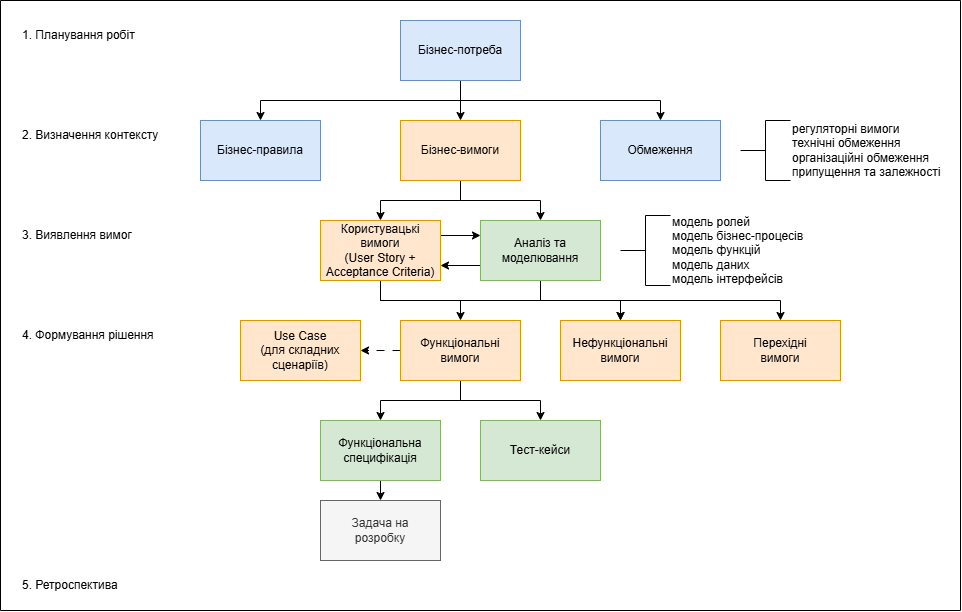
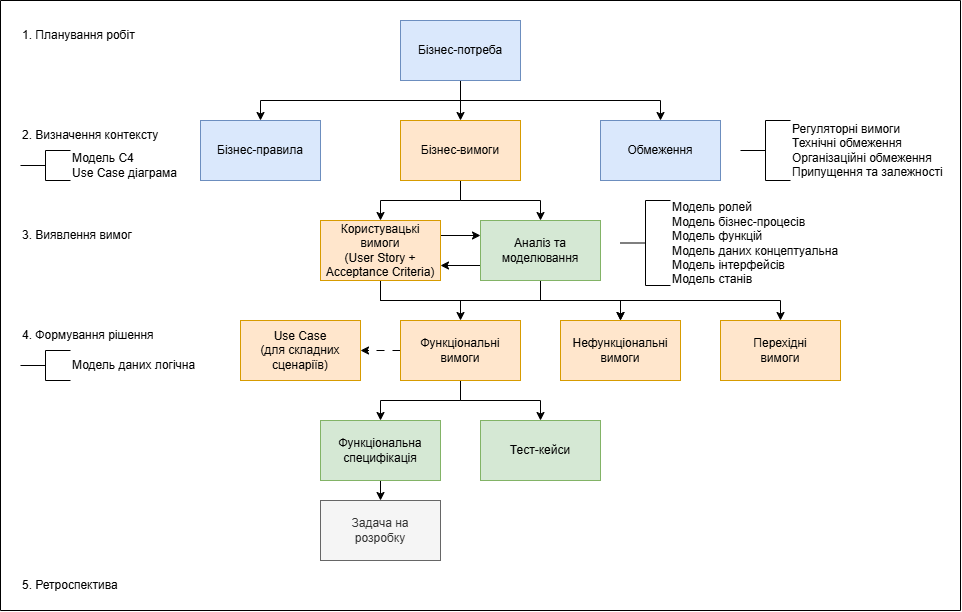
change page concept

diff --git a/concept.html b/concept.html
@@ -763,13 +763,15 @@
                         <a href="">шаблон</a>)
                       </li>
                       <li>
-                        Контекстна діаграма С4 (див. <a href="">приклад</a>)
-                      </li>
-                      <li>Use Case діаграма (див. <a href="">приклад</a>)</li>
-                      <li>
                         Бізнес&ndash;вимоги (див.
                         <a href="">шаблон</a>)
                       </li>
+                      <li>
+                        Реєстр зацікавлених сторін (див.
+                        <a href="">шаблон</a>)
+                      </li>
+                      <li>Модель С4 (див. <a href="">приклад</a>)</li>
+                      <li>Use Case діаграма (див. <a href="">приклад</a>)</li>
                       <li>
                         Матриця трасування вимог (див.
                         <a href="">шаблон</a>)
@@ -926,10 +928,6 @@
                     <b>Виходи</b>
                     <ul>
                       <li>
-                        Реєстр зацікавлених сторін (див.
-                        <a href="">шаблон</a>)
-                      </li>
-                      <li>
                         Користувацькі вимоги (див.
                         <a href="">шаблон</a>)
                       </li>
@@ -942,11 +940,36 @@
                         <a href="">шаблон</a>)
                       </li>
                       <li>
-                        Актуалізована Матриця трасування вимог (див.
+                        Модель ролей (див.
                         <a href="">шаблон</a>)
                       </li>
                       <li>
-                        Актуалізовано Глосарій термінів (див.
+                        Модель бізнес-процесів (див.
+                        <a href="">шаблон</a>)
+                      </li>
+
+                      <li>
+                        Модель функцій (див.
+                        <a href="">шаблон</a>)
+                      </li>
+                      <li>
+                        Модель даних концептуальна (див.
+                        <a href="">шаблон</a>)
+                      </li>
+                      <li>
+                        Модель інтерфейсів (див.
+                        <a href="">шаблон</a>)
+                      </li>
+                      <li>
+                        Модель станів (див.
+                        <a href="">шаблон</a>)
+                      </li>
+                      <li>
+                        Матриця трасування вимог (див.
+                        <a href="">шаблон</a>)
+                      </li>
+                      <li>
+                        Глосарій термінів (див.
                         <a href="">шаблон</a>)
                       </li>
                     </ul>
@@ -1152,23 +1175,11 @@
                         <a href="">шаблон</a>)
                       </li>
                       <li>
-                        Модель бізнес-процесів (див.
-                        <a href="">шаблон</a>)
-                      </li>
-                      <li>
-                        Модель даних (див.
-                        <a href="">шаблон</a>)
-                      </li>
-                      <li>
-                        Модель функцій (див.
-                        <a href="">шаблон</a>)
-                      </li>
-                      <li>
-                        Модель інтерфейсів (див.
-                        <a href="">шаблон</a>)
-                      </li>
-                      <li>
                         Функціональні вимоги (див.
+                        <a href="">шаблон</a>)
+                      </li>
+                      <li>
+                        Use Case (для складних сценаріїв, див.
                         <a href="">шаблон</a>)
                       </li>
                       <li>
@@ -1180,11 +1191,19 @@
                         <a href="">шаблон</a>)
                       </li>
                       <li>
-                        Актуалізована Матриця трасування вимог (див.
+                        Перехідні вимоги (див.
                         <a href="">шаблон</a>)
                       </li>
                       <li>
-                        Актуалізований Глосарій термінів (див.
+                        Модель даних логічна (див.
+                        <a href="">шаблон</a>)
+                      </li>
+                      <li>
+                        Матриця трасування вимог (див.
+                        <a href="">шаблон</a>)
+                      </li>
+                      <li>
+                        Глосарій термінів (див.
                         <a href="">шаблон</a>)
                       </li>
                     </ul>
@@ -1385,9 +1404,7 @@
                     <b>Виходи</b>
                     <ul>
                       <li>Звіт про ретроспективу</li>
-                      <li>
-                        План удосконалення процесу бізнес-аналізу (за потреби)
-                      </li>
+                      <li>План удосконалення процесу бізнес-аналізу</li>
                     </ul>
                   </div>
                 </div>
@@ -1483,7 +1500,36 @@
         </div>
       </div>
 
-      <div class="mt-4 text-center">
+      <!-- Перемикач -->
+      <div class="d-flex justify-content-center mt-4">
+        <div class="btn-group" role="group">
+          <input
+            type="radio"
+            class="btn-check"
+            name="viewMode"
+            id="graphView"
+            autocomplete="off"
+            checked
+          />
+          <label class="btn btn-outline-primary" for="graphView">
+            Графічне представлення
+          </label>
+
+          <input
+            type="radio"
+            class="btn-check"
+            name="viewMode"
+            id="tableView"
+            autocomplete="off"
+          />
+          <label class="btn btn-outline-primary" for="tableView">
+            Табличне представлення
+          </label>
+        </div>
+      </div>
+
+      <!-- Графічне представлення -->
+      <div id="graphContainer" class="mt-4 text-center">
         <img
           src="./src/img/concept-lifeCycle.png"
           class="img-fluid"
@@ -1492,6 +1538,106 @@
           data-bs-toggle="modal"
           data-bs-target="#imageModal"
         />
+      </div>
+
+      <!-- Табличне представлення -->
+      <div id="tableContainer" class="mt-4 d-none">
+        <!-- Тут буде ваша таблиця -->
+        <table class="table table-hover">
+          <colgroup>
+            <col style="width: 25%" />
+            <col style="width: 45%" />
+            <col style="width: 30%" />
+          </colgroup>
+          <thead>
+            <tr>
+              <th scope="col">Етапи бізнес-аналізу</th>
+              <th scope="col">Документи, що будуть створені</th>
+              <th scope="col">Моделі, що будуть створені</th>
+            </tr>
+          </thead>
+          <tbody>
+            <tr>
+              <td>1. Планування робіт</td>
+              <td>
+                <ul>
+                  <li>План робіт з бізнес-аналізу</li>
+                </ul>
+              </td>
+              <td class="ps-4">-</td>
+            </tr>
+            <tr>
+              <td>2. Визначення контексту</td>
+              <td>
+                <ul>
+                  <li>Концепція продукту</li>
+                  <li>Бізнес-вимоги</li>
+                  <li>Реєстр зацікавлених сторін</li>
+                  <li>Матриця трасування вимог</li>
+                  <li>Глосарій термінів</li>
+                </ul>
+              </td>
+              <td>
+                <ul>
+                  <li>Модель С4</li>
+                  <li>Use Case діаграма</li>
+                </ul>
+              </td>
+            </tr>
+            <tr>
+              <td>3. Виявлення вимог</td>
+              <td>
+                <ul>
+                  <li>Користувацькі вимоги (User Story + Acceptance Criteria)</li>
+                  <li>Регуляторні вимоги</li>
+                  <li>Бізнес-правила</li>
+                  <li>Обмеження</li>
+                  <li>Матриця трасування вимог</li>
+                  <li>Глосарій термінів</li>
+                </ul>
+              </td>
+              <td>
+                <ul>
+                  <li>Модель ролей</li>
+                  <li>Модель бізнес-процесів</li>
+                  <li>Модель функцій</li>
+                  <li>Модель даних концептуальна</li>
+                  <li>Модель інтерфейсів</li>
+                  <li>Модель станів</li>
+                </ul>
+              </td>
+            </tr>
+            <tr>
+              <td>4. Формування рішення</td>
+              <td>
+                <ul>
+                  <li>Концепція рішення</li>
+                  <li>Функціональні вимоги + Use Case (для складних сценаріїв)</li>
+                  <li>Нефункціональні вимоги</li>
+                  <li>Функціональні специфікації</li>
+                  <li>Перехідні вимоги</li>
+                  <li>Матриця трасування вимог</li>
+                  <li>Глосарій термінів</li>
+                </ul>
+              </td>
+              <td>
+                <ul>
+                  <li>Модель даних логічна</li>
+                </ul>
+              </td>
+            </tr>
+            <tr>
+              <td>5. Ретроспектива</td>
+              <td>
+                <ul>
+                  <li>Звіт про ретроспективу</li>
+                   <li>План удосконалення процесу бізнес-аналізу</li>
+                </ul>
+              </td>
+              <td class="ps-4">-</td>
+            </tr>
+          </tbody>
+        </table>
       </div>
 
       <!-- Modal -->

diff --git a/src/js/accordion.js b/src/js/accordion.js
@@ -91,3 +91,20 @@ document.addEventListener("DOMContentLoaded", () => {
 
   updateToggleButton();
 });
+
+/**Graph-Table view */
+const graphView = document.getElementById("graphView");
+const tableView = document.getElementById("tableView");
+
+const graphContainer = document.getElementById("graphContainer");
+const tableContainer = document.getElementById("tableContainer");
+
+graphView.addEventListener("change", () => {
+  graphContainer.classList.remove("d-none");
+  tableContainer.classList.add("d-none");
+});
+
+tableView.addEventListener("change", () => {
+  graphContainer.classList.add("d-none");
+  tableContainer.classList.remove("d-none");
+});

diff --git a/src/css/style.css b/src/css/style.css
@@ -145,3 +145,16 @@ h2 {
 .card:hover .card-link {
   color: var(--bs-primary);
 }
+
+/*Graph-Table view*/
+.btn-check + .btn-outline-primary {
+  background: transparent;
+  color: #000;
+  border-color: #6899e3;
+}
+
+.btn-check:checked + .btn-outline-primary {
+  background: #6899e3;
+  color: #fff;
+}
+/*Graph-Table view end*/
